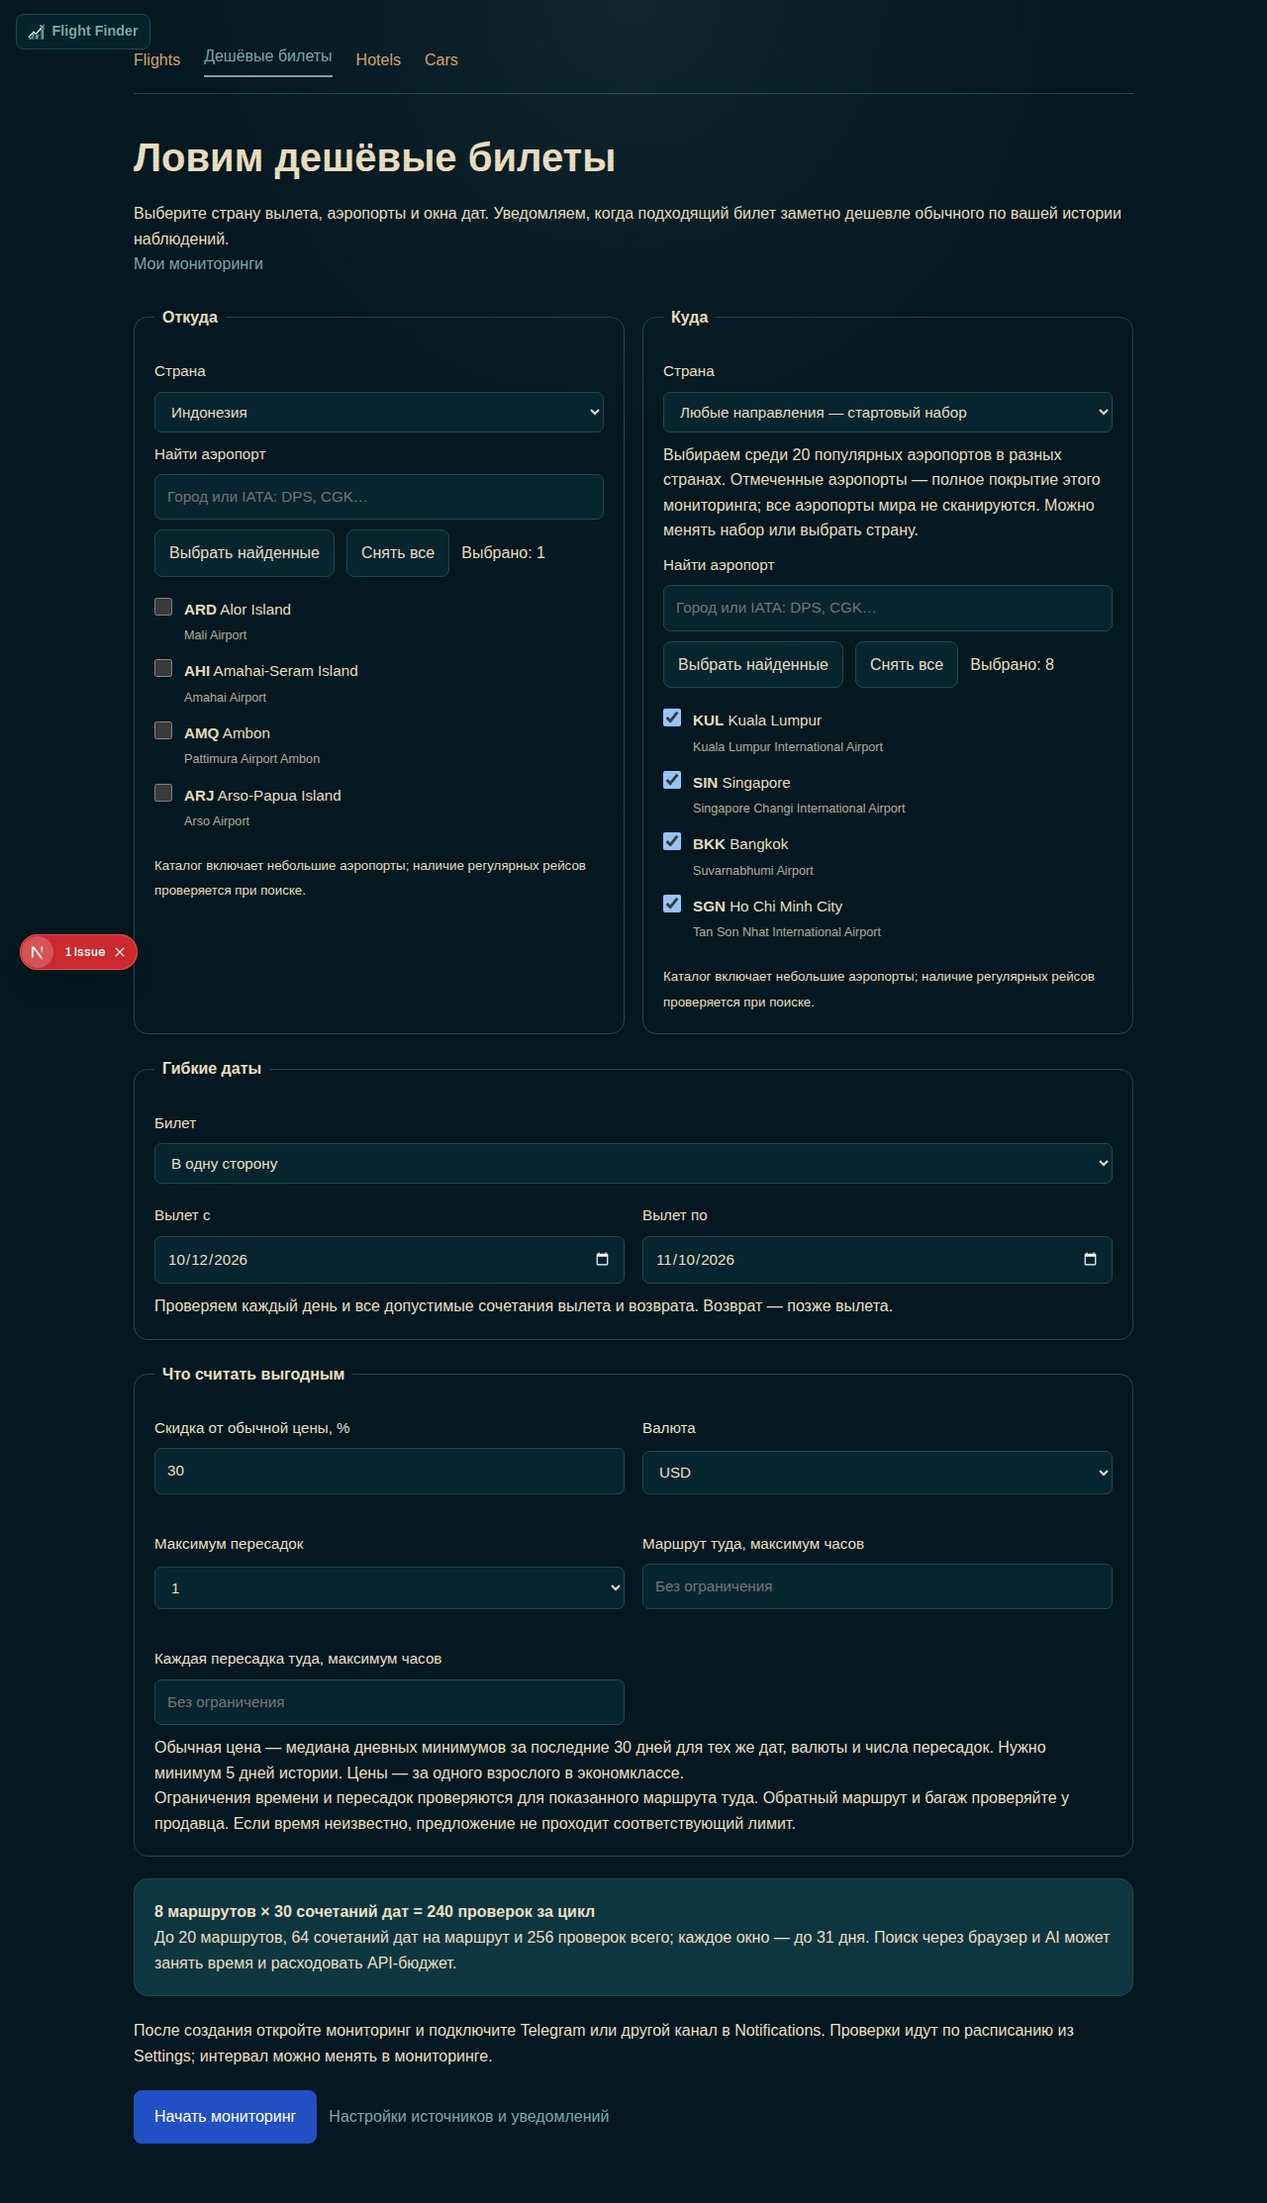
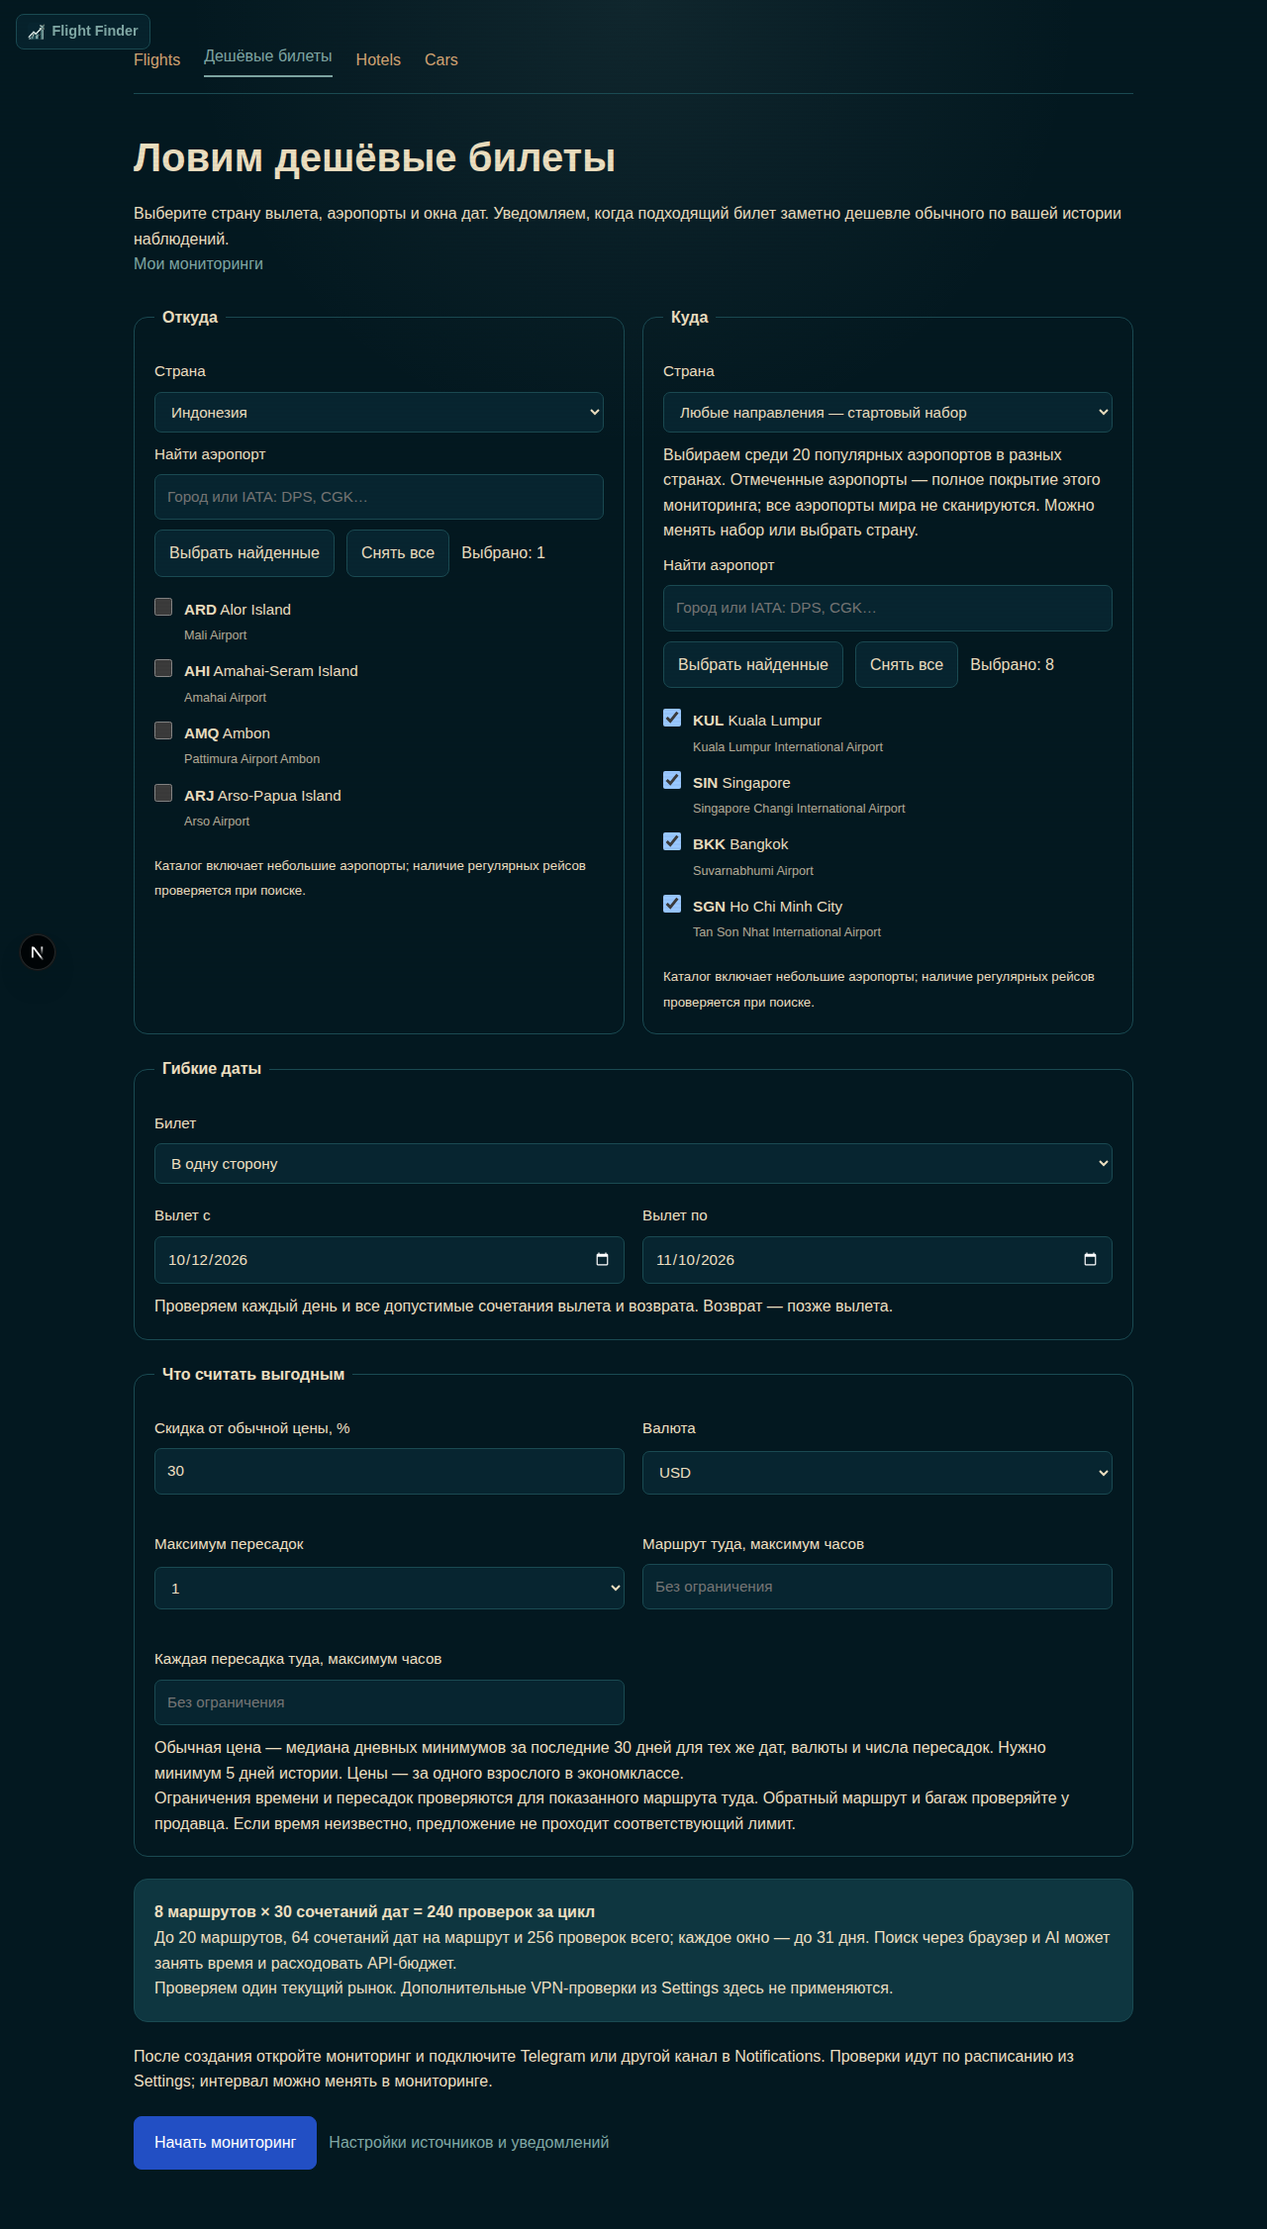
fix: bound deal search work and expire departure alerts

diff --git a/apps/web/src/lib/notifications/flights.ts b/apps/web/src/lib/notifications/flights.ts
@@ -11,9 +11,10 @@ import { criteriaVersion, notificationBaselineFrom } from './authority/flight';
 import { recordPriceRuleAlerts } from './rules/record';
 import { decodePriceAuthority, assertPriceAuthority, type PriceEventAuthority } from './rules/authority';
 import { recordDealAlert } from './deals/record';
+import { dealAlertExpiry } from './deals/expiry';
 import { lockNotificationQuery as lockQuery, captureNotificationRouting, decodeNotificationRouting, assertNotificationRouting, type NotificationRouting } from './subscriptions/authority';
 
-interface FlightDelivery extends ClaimedDelivery { queryId: string; queryVersion: string; price: number; routing: NotificationRouting; priceAuthority: PriceEventAuthority }
+interface FlightDelivery extends ClaimedDelivery { queryId: string; queryVersion: string; price: number; routing: NotificationRouting; priceAuthority: PriceEventAuthority; dealExpiresAt: Date | null }
 
 async function flightAlertOptions(tx: Prisma.TransactionClient, cycleStartedAt: Date) {
   await lockTravelAdmission(tx);
@@ -70,7 +71,7 @@ export async function recordFlightAlert(queryId: string, cycleStartedAt: Date): 
   await notificationTransaction(tx => recordFlightAlertInTransaction(tx, queryId, cycleStartedAt));
 }
 
-function flightPayload(row: TravelAlertDelivery): { payload: ChannelMessage; owner: string | null; queryVersion: string; price: number; routing: NotificationRouting; priceAuthority: PriceEventAuthority; requiredChannelIds?: string[] } {
+function flightPayload(row: TravelAlertDelivery): { payload: ChannelMessage; owner: string | null; queryVersion: string; price: number; routing: NotificationRouting; priceAuthority: PriceEventAuthority; dealExpiresAt: Date | null; requiredChannelIds?: string[] } {
   const message = row.message;
   if (!message || typeof message !== 'object' || Array.isArray(message)) throw new Error('Invalid flight notification');
   const data = message.data;
@@ -83,6 +84,7 @@ function flightPayload(row: TravelAlertDelivery): { payload: ChannelMessage; own
   return {
     payload: { title: message.title, body: message.body, url: message.url, data: data as unknown as ChannelMessage['data'] },
     owner: data.userId, queryVersion: data.queryVersion, price: data.currentMin, routing, priceAuthority,
+    dealExpiresAt: priceAuthority.kind === 'deal' ? dealAlertExpiry(data.travelDate) : null,
     requiredChannelIds: routing.mode === 'selected' ? routing.channels.map(channel => channel.id) : undefined,
   };
 }
@@ -95,7 +97,8 @@ async function claim(id: string, queryId: string): Promise<FlightDelivery | null
     let details: ReturnType<typeof flightPayload>;
     try {
       details = flightPayload(row);
-      if (!query?.active || query.expiresAt <= new Date() || query.userId !== details.owner || criteriaVersion(query) !== details.queryVersion) throw new Error('Flight query changed');
+      if (!query?.active || query.expiresAt <= new Date() || (details.dealExpiresAt && details.dealExpiresAt <= new Date())
+        || query.userId !== details.owner || criteriaVersion(query) !== details.queryVersion) throw new Error('Flight query or deal expired');
       await assertNotificationRouting(tx, queryId, details.owner, details.routing);
       await assertPriceAuthority(tx, queryId, details.priceAuthority);
     } catch {
@@ -111,7 +114,7 @@ async function guarded<T>(entry: FlightDelivery, work: (tx: Prisma.TransactionCl
   return notificationTransaction(async tx => {
     const query = await lockQuery(tx, entry.queryId);
     const row = await tx.travelAlertDelivery.findUnique({ where: { id: entry.id } });
-    if (!query?.active || query.expiresAt <= new Date() || query.userId !== entry.owner || criteriaVersion(query) !== entry.queryVersion
+    if (!query?.active || query.expiresAt <= new Date() || (entry.dealExpiresAt && entry.dealExpiresAt <= new Date()) || query.userId !== entry.owner || criteriaVersion(query) !== entry.queryVersion
       || !row?.pending || row.claimToken !== entry.claimToken || !row.claimExpiresAt || row.claimExpiresAt <= new Date()) throw new Error('Flight notification delivery authority was lost');
     await assertNotificationRouting(tx, entry.queryId, entry.owner, entry.routing);
     await assertPriceAuthority(tx, entry.queryId, entry.priceAuthority);

diff --git a/apps/web/src/lib/scraper/run-scrape.test.ts b/apps/web/src/lib/scraper/run-scrape.test.ts
@@ -1,5 +1,5 @@
 import { describe, it, expect, vi, beforeEach } from 'vitest';
-import { mockPrisma, mockNavigateGoogleFlights, mockNavigateAirlineDirect, mockExtractPrices, runScrapeForQuery, BASE_QUERY } from '../../test/scraper/run-scrape-fixture';
+import { mockPrisma, mockNavigateGoogleFlights, mockNavigateAirlineDirect, mockExtractPrices, runScrapeForQuery, runFullScrapeForQuery, BASE_QUERY } from '../../test/scraper/run-scrape-fixture';
 import { runScrapeAll } from './run-scrape';
 import { TravelCleanupError } from '../travel/execution';
 
@@ -62,6 +62,17 @@ describe('runScrapeForQuery', () => {
     expect(await runScrapeForQuery('q1')).toMatchObject({ status: 'partial', snapshotsCount: 1 });
     const second = mockPrisma.priceSnapshot.createMany.mock.calls.flatMap(([input]) => input.data);
     expect(second.some(row => row.status === 'sold_out')).toBe(false);
+  });
+  it('executes a bounded deal grid once despite inherited VPN-country settings', async () => {
+    mockPrisma.query.findUnique.mockResolvedValue({ ...BASE_QUERY, dealMinDiscountPct: 30, tripType: 'one_way',
+      dateFrom: new Date('2026-12-15'), dateTo: new Date('2026-12-15'), outboundDateTo: new Date('2026-12-15') });
+    mockPrisma.extractionConfig.findFirst.mockResolvedValue({ provider: 'anthropic', vpnProvider: null, vpnCountries: ['JP', 'DE'] });
+    mockExtractPrices.mockResolvedValue({ prices: [{ travelDate: '2026-12-15', price: 100, currency: 'USD',
+      airline: 'Delta', bookingUrl: '', stops: 0, duration: '5h' }], usage: { inputTokens: 100, outputTokens: 20 } });
+    const result = await runFullScrapeForQuery('q1');
+    expect(result).toHaveLength(1);
+    expect(result[0]?.status).toBe('success');
+    expect(mockNavigateGoogleFlights).toHaveBeenCalledTimes(1);
   });
 
   it('keeps distinct flights available when their previously different fares become equal', async () => {

diff --git a/apps/web/src/lib/deals/create-criteria.ts b/apps/web/src/lib/deals/create-criteria.ts
@@ -20,6 +20,7 @@ export function dealCreationCriteria(body: Record<string, unknown>, routes: read
   if (typeof country !== 'string' || !flightCountries.some(item => item.code === country)
     || routes.some(route => !airportInCountry(route.origin, country))) return { data: null, error: 'Аэропорты вылета должны принадлежать выбранной стране.' };
   if (routes.some(route => route.date || route.returnDate || route.selectedFlights?.length) || body.sourceUrl) return { data: null, error: 'Гибкий мониторинг не поддерживает закреплённые рейсы и ссылки.' };
+  if (Array.isArray(body.vpnCountries) && body.vpnCountries.length) return { data: null, error: 'Гибкий мониторинг проверяет один рынок, без дополнительных VPN-проверок.' };
   if (typeof discount !== 'number' || !Number.isFinite(discount) || discount < 1 || discount > 95) return { data: null, error: 'Скидка должна быть от 1 до 95%.' };
   if (layover != null && (typeof layover !== 'number' || !Number.isInteger(layover) || layover < 1 || layover > 24)) return { data: null, error: 'Пересадка: от 1 до 24 часов.' };
   const today = new Date(now.toISOString().slice(0, 10));

diff --git a/apps/web/src/components/deals/DealForm.tsx b/apps/web/src/components/deals/DealForm.tsx
@@ -127,6 +127,7 @@ export function DealForm({ countries, indonesia, discovery, initialDates }: {
     </fieldset>
     <div className={styles.summary} aria-live="polite"><strong>{routes.length} маршрутов × {pairs.length} сочетаний дат = {checks} проверок за цикл</strong>
       <p>До 20 маршрутов, {MAX_DEAL_DATE_PAIRS} сочетаний дат на маршрут и {MAX_DEAL_CHECKS} проверок всего; каждое окно — до 31 дня. Поиск через браузер и AI может занять время и расходовать API-бюджет.</p>
+      <p>Проверяем один текущий рынок. Дополнительные VPN-проверки из Settings здесь не применяются.</p>
       {tooWide && <p role="alert">Сузьте даты или выберите меньше аэропортов.</p>}
     </div>
     <p>После создания откройте мониторинг и подключите Telegram или другой канал в Notifications. Проверки идут по расписанию из Settings; интервал можно менять в мониторинге.</p>

diff --git a/apps/web/src/test/scraper/run-scrape-fixture.ts b/apps/web/src/test/scraper/run-scrape-fixture.ts
@@ -50,6 +50,7 @@ vi.mock('fs/promises', () => ({
 }));
 
 import { runScrapeForQuery as scrapeAdmittedQuery } from '../../lib/scraper/run-scrape';
+import { runFullScrapeForQuery as scrapeAdmittedFullQuery } from '../../lib/scraper/run-scrape';
 
 const lease = { id: 'vpn', owner: 'unit-worker', generation: 1, topologyVersion: 1 };
 const job = { id: 'unit-job', kind: 'flight_query', queryId: 'q1', userId: null, status: 'running' } as TravelJob;
@@ -69,6 +70,11 @@ beforeEach(() => {
 export async function runScrapeForQuery(...args: Parameters<typeof scrapeAdmittedQuery>) {
   const config = await mockPrisma.extractionConfig.findFirst() as ExtractionConfig | null;
   return withTravelContext({ job, lease, config, vpn: new TravelVpnSession(lease, 'none') }, () => scrapeAdmittedQuery(...args));
+}
+
+export async function runFullScrapeForQuery(...args: Parameters<typeof scrapeAdmittedFullQuery>) {
+  const config = await mockPrisma.extractionConfig.findFirst() as ExtractionConfig | null;
+  return withTravelContext({ job, lease, config, vpn: new TravelVpnSession(lease, 'none') }, () => scrapeAdmittedFullQuery(...args));
 }
 
 export const BASE_QUERY = {

diff --git a/apps/web/src/lib/notifications/deals/record.ts b/apps/web/src/lib/notifications/deals/record.ts
@@ -6,6 +6,7 @@ import { ruleCollection } from '../rules/store';
 import type { NotificationRouting } from '../subscriptions/authority';
 import { safeHttpUrl } from '../../safe-url';
 import { formatCurrency } from '../../currency';
+import { dealAlertExpiry } from './expiry';
 
 export async function recordDealAlert(tx: Prisma.TransactionClient, query: Query, cycleStartedAt: Date,
   baselineFrom: Date | null, routing: NotificationRouting, baseUrl: string | null): Promise<void> {
@@ -17,6 +18,7 @@ export async function recordDealAlert(tx: Prisma.TransactionClient, query: Query
   if (!deal || deal.normalPrice === null || deal.discountPct === null) return;
   const snapshot = deal.snapshot;
   const travelDate = snapshot.travelDate.toISOString().slice(0, 10);
+  if (dealAlertExpiry(travelDate) <= new Date()) return;
   const returnDate = snapshot.returnTravelDate?.toISOString().slice(0, 10) ?? null;
   const key = createHash('sha256').update(JSON.stringify([query.id, query.userId, queryVersion, routing.revision,
     collection.revision, travelDate, returnDate, snapshot.stops, snapshot.currency, snapshot.price, snapshot.vpnCountry])).digest('hex');

diff --git a/apps/web/src/lib/scraper/run-scrape.ts b/apps/web/src/lib/scraper/run-scrape.ts
@@ -723,7 +723,7 @@ export async function runFullScrapeForQuery(
   const defaultVpnCountries = config?.vpnCountries ?? [];
   const proxyUrl = vpnProvider.getProxyUrl?.() ?? undefined;
 
-  const countries = query.vpnCountries.length > 0 ? query.vpnCountries : defaultVpnCountries;
+  const countries = query.dealMinDiscountPct != null ? [] : query.vpnCountries.length > 0 ? query.vpnCountries : defaultVpnCountries;
   const countriesToScrape: (string | null)[] = countries.length > 0
     ? [null, ...countries]
     : [null];
@@ -855,7 +855,7 @@ async function runScrapeAllInner(): Promise<ScrapeResult[]> {
   const allVpnCountries = new Set<string>();
   const queryCountryMap = new Map<string, string[]>();
   for (const q of dueQueries) {
-    const countries = q.vpnCountries.length > 0 ? q.vpnCountries : defaultVpnCountries;
+    const countries = q.dealMinDiscountPct != null ? [] : q.vpnCountries.length > 0 ? q.vpnCountries : defaultVpnCountries;
     queryCountryMap.set(q.id, countries);
     for (const c of countries) allVpnCountries.add(c);
   }

diff --git a/apps/web/src/lib/scraper/navigate.test.ts b/apps/web/src/lib/scraper/navigate.test.ts
@@ -518,6 +518,13 @@ describe('pageRedirectedToHomepage (the #65 headline failure mode)', () => {
 // two-criterion signal requires both currency density (3+ mentions) and at
 // least one price-shaped token with letter-boundary protection.
 describe('hasFlightPriceSignal (two-criterion airline page heuristic, issue #65)', () => {
+  it.each(['IDR 1,000,000 / IDR 900,000 / IDR 800,000', 'Rp1.000.000 / Rp 900.000 / Rp.800.000',
+    'RUB 10000 / RUB 9000 / RUB 8000', '10 000 ₽ / 9 000 ₽ / 8 000 ₽', '₽10000 / ₽9000 / ₽8000'])('recognizes fares in a deal-form currency: %s', text => {
+    expect(hasFlightPriceSignal(text)).toBe(true);
+  });
+  it('keeps sparse rupiah marketing pages out of extraction', () => {
+    expect(hasFlightPriceSignal('Prices from Rp 100,000')).toBe(false);
+  });
   it('rejects a stub page with one EUR mention and no digits', () => {
     expect(hasFlightPriceSignal('Discover EUR fares with flexible booking.')).toBe(false);
   });

diff --git a/apps/web/src/lib/scraper/navigate.ts b/apps/web/src/lib/scraper/navigate.ts
@@ -91,8 +91,8 @@ export function isoDate(d: Date): string {
 //   2. At least one price-shaped token (symbol or bounded code adjacent to a
 //      digit). Lookaround prevents matching "TRY" inside INDUSTRY or "EUR"
 //      inside EURO trip.
-const CURRENCY_MENTION_PATTERN = '€|£|\\$|EUR|GBP|USD|TRY|JPY|CHF';
-const PRICE_TOKEN_PATTERN = '(?:€|£|\\$)\\s?\\d|(?<![A-Za-z])(?:EUR|GBP|USD|TRY|JPY|CHF)(?![A-Za-z])\\s?\\d';
+const CURRENCY_MENTION_PATTERN = '€|£|\\$|₽|(?<![A-Za-z])Rp\\.?(?![A-Za-z])|EUR|GBP|USD|TRY|JPY|CHF|IDR|RUB';
+const PRICE_TOKEN_PATTERN = '(?:€|£|\\$|₽)\\s?\\d|\\d\\s?₽|(?<![A-Za-z])(?:EUR|GBP|USD|TRY|JPY|CHF|IDR|RUB|Rp\\.?)(?![A-Za-z])\\s?\\d';
 const MIN_CURRENCY_MENTIONS = 3;
 
 export function hasFlightPriceSignal(text: string): boolean {

diff --git a/apps/web/src/lib/notifications/deals/expiry.test.ts b/apps/web/src/lib/notifications/deals/expiry.test.ts
@@ -1,0 +1,13 @@
+import { describe, expect, it } from 'vitest';
+import { dealAlertExpiry } from './expiry';
+
+describe('deal outbound delivery lifetime', () => {
+  it('includes the whole outbound UTC day and excludes the next day', () => {
+    const expiry = dealAlertExpiry('2026-10-11');
+    expect(expiry > new Date('2026-10-11T23:59:59.999Z')).toBe(true);
+    expect(expiry <= new Date('2026-10-12T00:00:00.000Z')).toBe(true);
+  });
+  it.each(['2026-02-31', '2026-10-11T00:00:00Z', null])('rejects malformed outbound metadata: %s', value => {
+    expect(() => dealAlertExpiry(value)).toThrow('Invalid deal departure date');
+  });
+});

diff --git a/apps/web/src/app/api/queries/route.test.ts b/apps/web/src/app/api/queries/route.test.ts
@@ -107,6 +107,11 @@ describe('POST /api/queries', () => {
     expect(response.status).toBe(400);
     expect(mockQueryCreate).not.toHaveBeenCalled();
   });
+  it('rejects extra VPN passes in an explicitly bounded deal search', async () => {
+    const response = await POST(makeRequest({ ...dealBody, vpnCountries: ['JP'] }));
+    expect(response.status).toBe(400);
+    expect(mockQueryCreate).not.toHaveBeenCalled();
+  });
   it('keeps a one-way deal ending today active throughout its inclusive final UTC day', async () => {
     const today = new Date().toISOString().slice(0, 10);
     const tomorrow = new Date(`${today}T00:00:00Z`);

diff --git a/apps/web/src/lib/notifications/deals/expiry.ts b/apps/web/src/lib/notifications/deals/expiry.ts
@@ -1,0 +1,9 @@
+import { calendarDate } from '../../deals/date-window';
+
+/** A deal can be delivered through its outbound UTC day, never afterwards. */
+export function dealAlertExpiry(travelDate: unknown): Date {
+  const day = calendarDate(travelDate);
+  if (!day) throw new Error('Invalid deal departure date');
+  day.setUTCDate(day.getUTCDate() + 1);
+  return day;
+}
